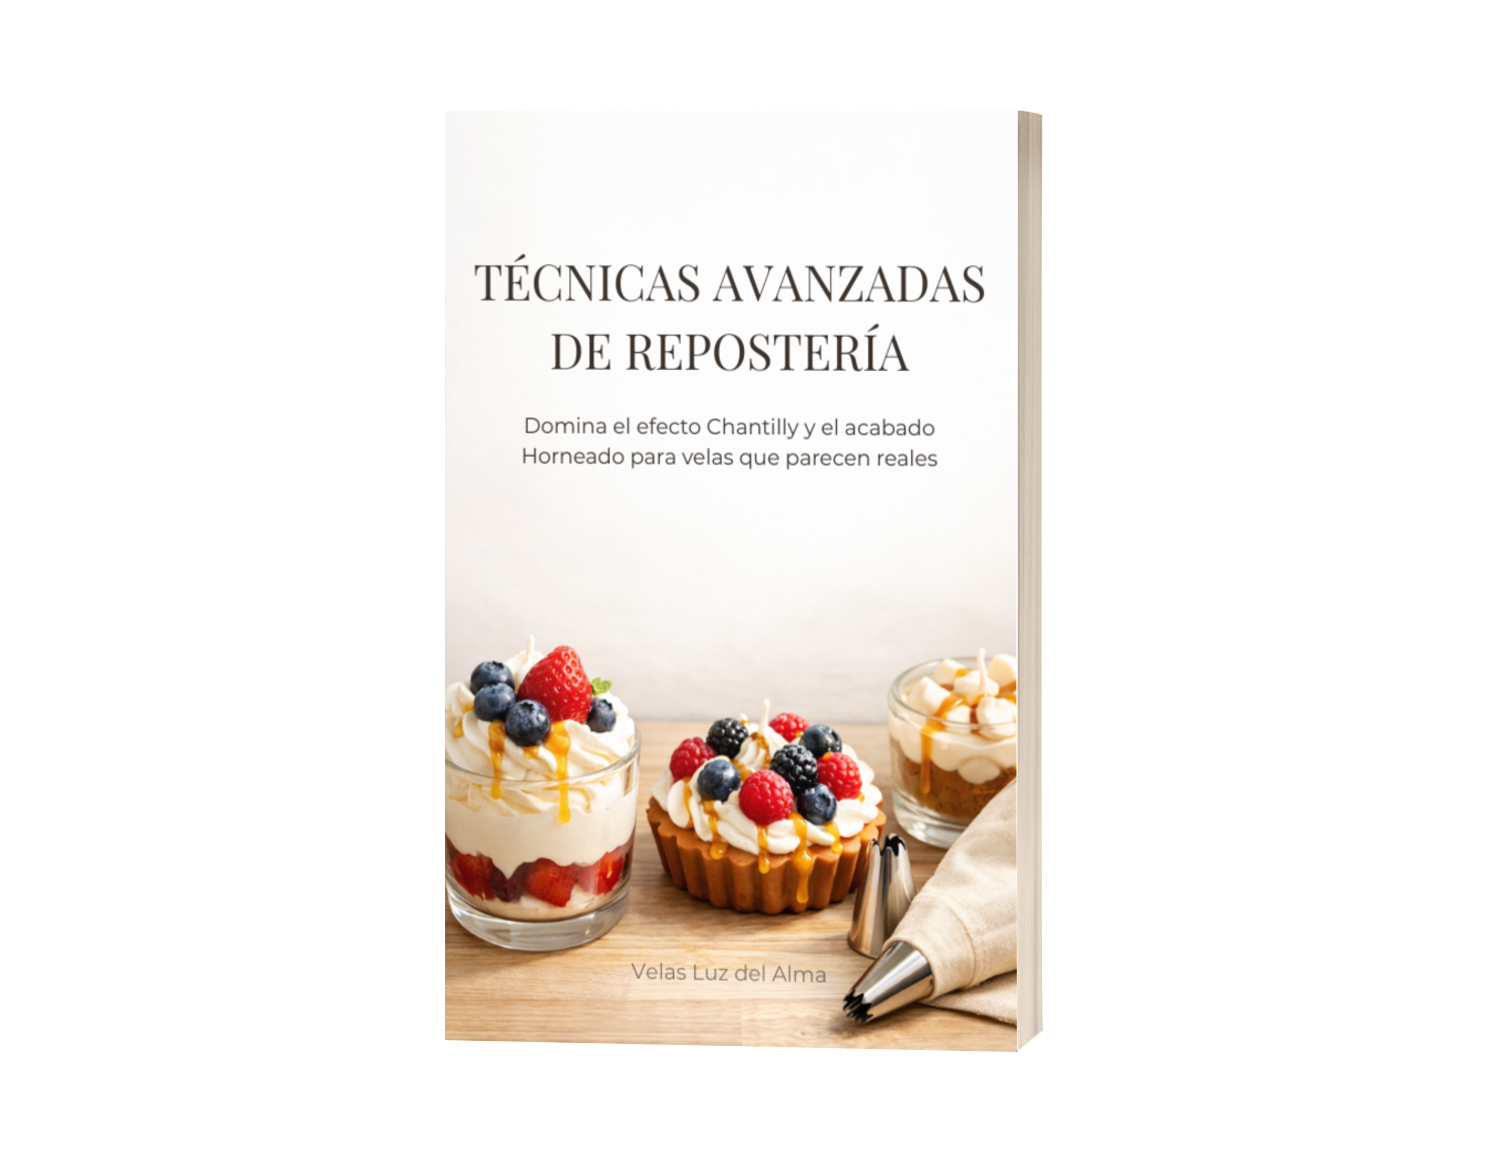
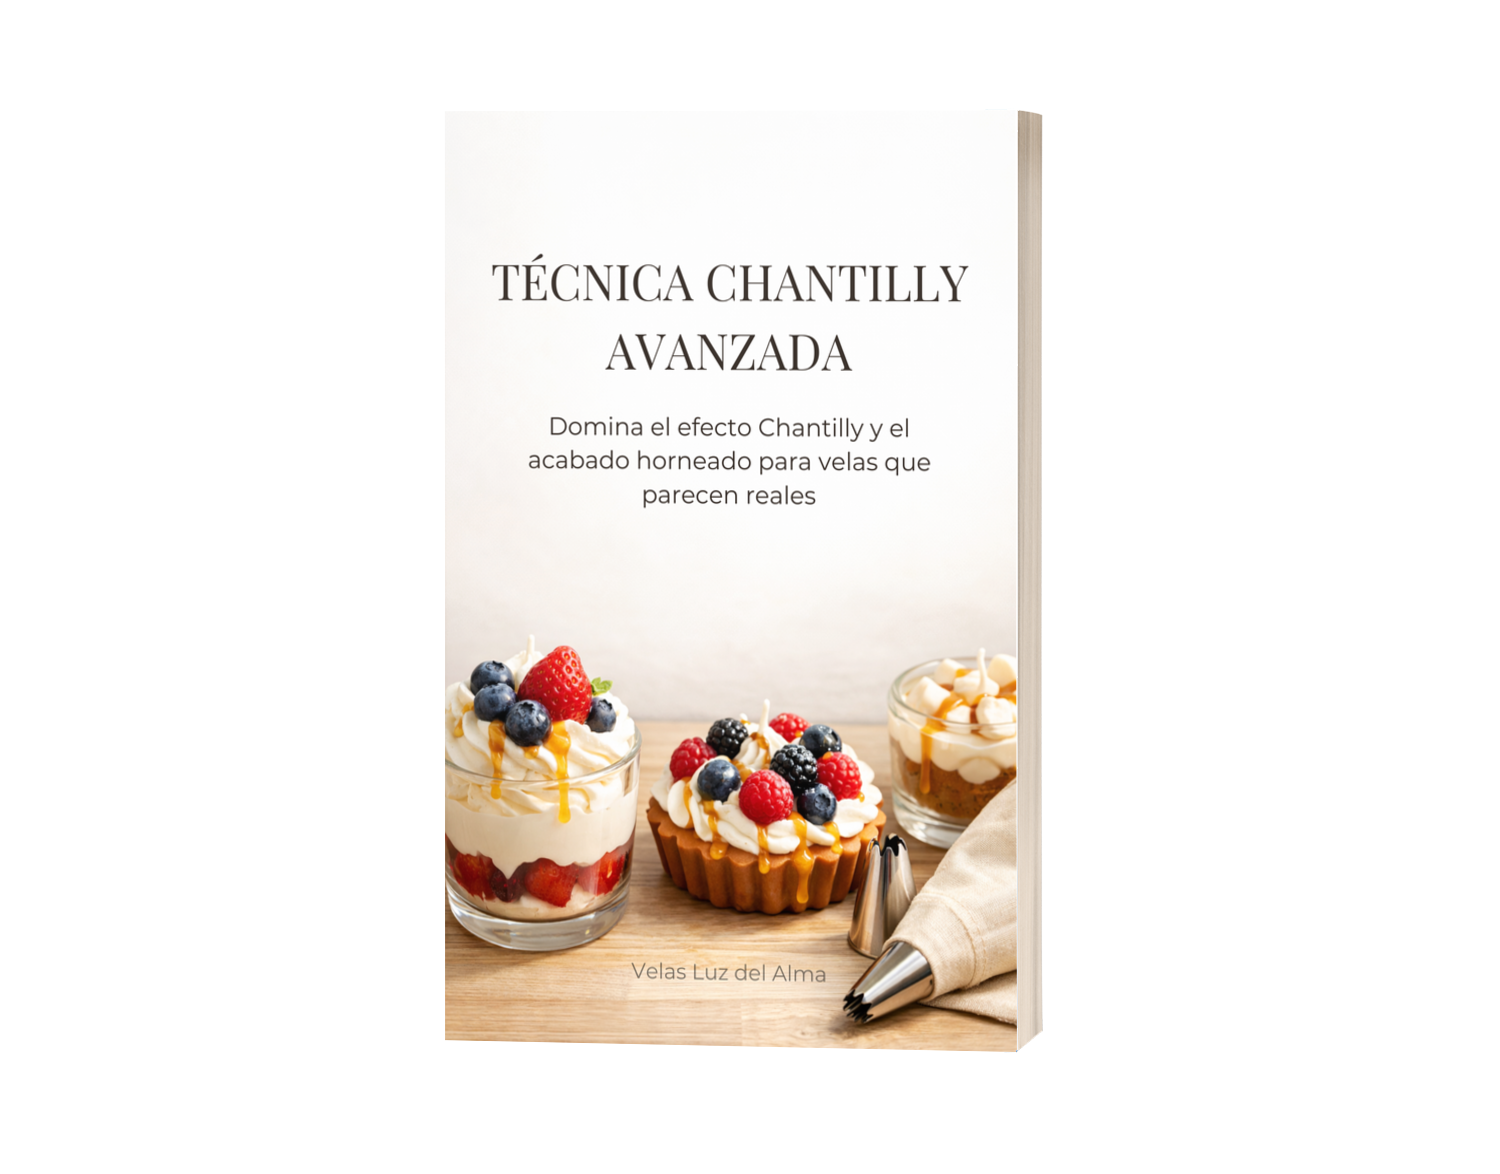
update cambios

Changed region(s): [[0.3067, 0.2147, 0.6747, 0.4293]]

diff --git a/components/landing/faq.tsx b/components/landing/faq.tsx
@@ -26,7 +26,7 @@ const faqs = [
   },
   {
     question: "¿Qué pasa si tengo dudas después de leerla?",
-    answer: "Tienes acceso a soporte por email durante 1 año. Respondo personalmente todas las consultas para asegurarme de que logres tus objetivos."
+    answer: "Tienes acceso a soporte por email durante 6 meses. Respondo personalmente todas las consultas para asegurarme de que logres tus objetivos."
   }
 ];
 
@@ -67,16 +67,14 @@ export function Faq() {
                 <span className="text-foreground font-medium pr-4">
                   {faq.question}
                 </span>
-                <ChevronDown 
-                  className={`w-5 h-5 text-amber-600 shrink-0 transition-transform duration-200 ${
-                    openIndex === index ? "rotate-180" : ""
-                  }`}
+                <ChevronDown
+                  className={`w-5 h-5 text-amber-600 shrink-0 transition-transform duration-200 ${openIndex === index ? "rotate-180" : ""
+                    }`}
                 />
               </button>
               <div
-                className={`overflow-hidden transition-all duration-200 ${
-                  openIndex === index ? "max-h-48" : "max-h-0"
-                }`}
+                className={`overflow-hidden transition-all duration-200 ${openIndex === index ? "max-h-48" : "max-h-0"
+                  }`}
               >
                 <p className="px-6 pb-5 text-muted-foreground leading-relaxed">
                   {faq.answer}

diff --git a/components/landing/bonus.tsx b/components/landing/bonus.tsx
@@ -32,7 +32,7 @@ export function Bonus() {
         },
         {
             id: 5,
-            titulo: "Técnicas Avanzadas de Repostería",
+            titulo: "Técnica Chantilly Avanzada",
             descripcion: "Lleva tus velas al siguiente nivel con el efecto 'Chantilly'. Aprende a crear velas que parezcan postres reales y sorprendan a tus clientes.",
             imagen: "/Mockup Bonus 5.png",
             valor: "$27.00"
